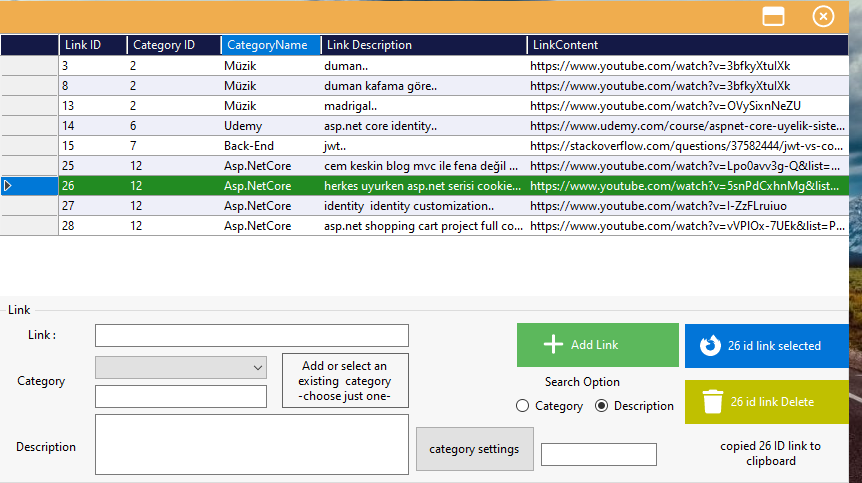
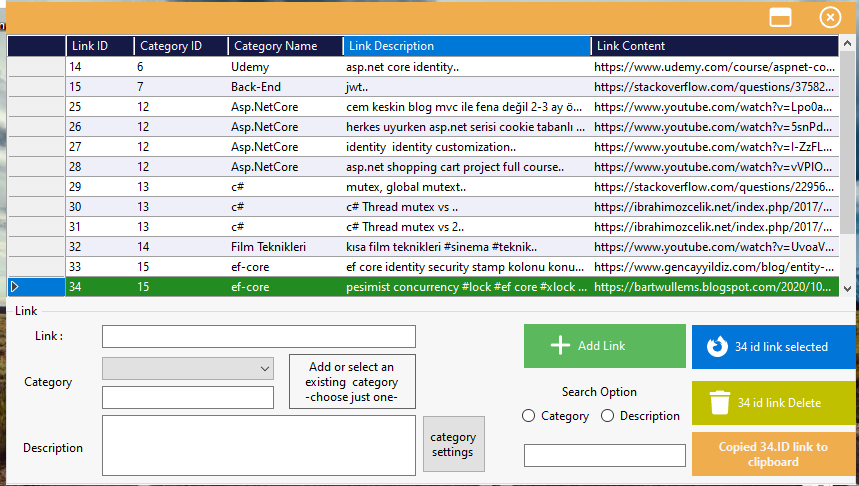
ui

diff --git a/LinkSaveR/Login.Designer.cs b/LinkSaveR/Login.Designer.cs
@@ -34,7 +34,7 @@
             // 
             // maskedTextBox1
             // 
-            this.maskedTextBox1.Location = new System.Drawing.Point(42, 19);
+            this.maskedTextBox1.Location = new System.Drawing.Point(12, 12);
             this.maskedTextBox1.Name = "maskedTextBox1";
             this.maskedTextBox1.PasswordChar = 'x';
             this.maskedTextBox1.Size = new System.Drawing.Size(176, 23);
@@ -42,7 +42,7 @@
             // 
             // button1
             // 
-            this.button1.Location = new System.Drawing.Point(90, 58);
+            this.button1.Location = new System.Drawing.Point(62, 41);
             this.button1.Name = "button1";
             this.button1.Size = new System.Drawing.Size(75, 23);
             this.button1.TabIndex = 2;
@@ -54,7 +54,7 @@
             // 
             this.AutoScaleDimensions = new System.Drawing.SizeF(7F, 15F);
             this.AutoScaleMode = System.Windows.Forms.AutoScaleMode.Font;
-            this.ClientSize = new System.Drawing.Size(251, 156);
+            this.ClientSize = new System.Drawing.Size(202, 72);
             this.Controls.Add(this.button1);
             this.Controls.Add(this.maskedTextBox1);
             this.FormBorderStyle = System.Windows.Forms.FormBorderStyle.FixedToolWindow;

diff --git a/LinkSaveR/LinkSaver.Designer.cs b/LinkSaveR/LinkSaver.Designer.cs
@@ -185,9 +185,13 @@ namespace LinkSaveR
             // 
             // lblCopy
             // 
-            this.lblCopy.Location = new System.Drawing.Point(701, 129);
+            this.lblCopy.BackColor = System.Drawing.Color.FromArgb(((int)(((byte)(240)))), ((int)(((byte)(173)))), ((int)(((byte)(78)))));
+            this.lblCopy.FlatStyle = System.Windows.Forms.FlatStyle.Flat;
+            this.lblCopy.Font = new System.Drawing.Font("Segoe UI", 9F, System.Drawing.FontStyle.Bold, System.Drawing.GraphicsUnit.Point);
+            this.lblCopy.ForeColor = System.Drawing.Color.WhiteSmoke;
+            this.lblCopy.Location = new System.Drawing.Point(686, 129);
             this.lblCopy.Name = "lblCopy";
-            this.lblCopy.Size = new System.Drawing.Size(143, 44);
+            this.lblCopy.Size = new System.Drawing.Size(164, 44);
             this.lblCopy.TabIndex = 13;
             this.lblCopy.TextAlign = System.Drawing.ContentAlignment.MiddleCenter;
             // 

diff --git a/LinkSaveR/LinkSaver.cs b/LinkSaveR/LinkSaver.cs
@@ -199,7 +199,7 @@ namespace LinkSaveR
 
 
             Clipboard.SetData(DataFormats.StringFormat, url);
-            lblCopy.Text = $"copied {deleteId} ID link to clipboard";
+            lblCopy.Text = $"Copied {deleteId}.ID link to clipboard";
 
         }
 
